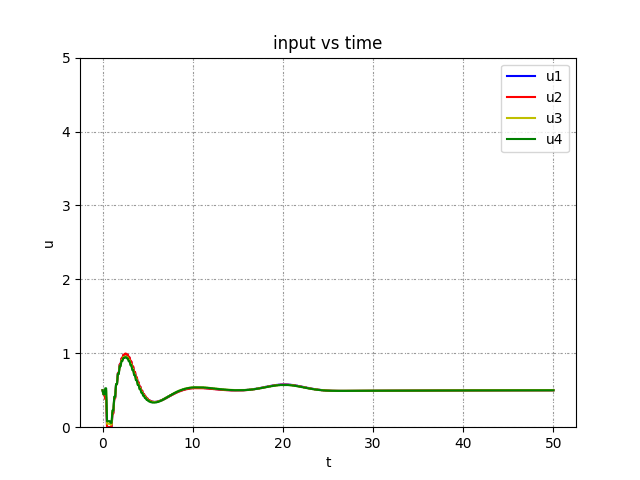
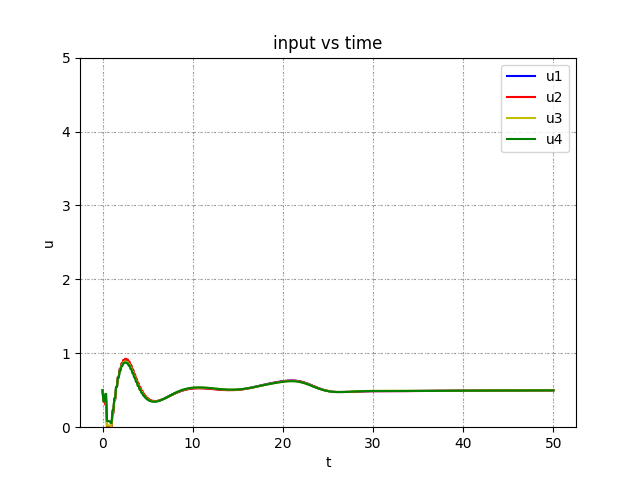
can generate desired result version, need coordinate tranform

diff --git a/gestelt_bringup/src/learning_agent_node.py b/gestelt_bringup/src/learning_agent_node.py
@@ -92,14 +92,14 @@ class LearningAgileAgentNode():
         # mission start point is the learning agile agent start point
         self.start_point = self.drone_pos
 
-        self.gate_point = np.array([msg.waypoints[0].position.x,msg.waypoints[0].position.y,msg.waypoints[0].position.z])
+        # self.gate_point = np.array([msg.waypoints[0].position.x,msg.waypoints[0].position.y,msg.waypoints[0].position.z])
         self.final_point = np.array([msg.waypoints[1].position.x,msg.waypoints[1].position.y,msg.waypoints[1].position.z])
-        
+        # print("gate point: ",self.gate_point)
         ## receive the start and end point, and the initial gate point, from ROS side
         # rewrite the inputs
         self.learing_agile_agent.receive_terminal_states(start=self.start_point,
-                                                         end=self.final_point,
-                                                         gate_center=self.gate_point)
+                                                         end=self.final_point)
+                                                        #  gate_center=self.gate_point)
 
         # problem definition
         # gazebo_sim=False, means the solver will compile to c code first, then solve the problem

diff --git a/gestelt_bringup/src/Learning_Agile/quad_OC.py b/gestelt_bringup/src/Learning_Agile/quad_OC.py
@@ -510,7 +510,6 @@ class OCSys:
         desired_goal_vel=np.array([0, 0, 0])
         desired_goal_ori = np.array([1, 0, 0, 0])
         desired_goal_w=np.array([0, 0, 0])
-        desired_thrust = np.ones(self.n_control)*0.5
         
         goal_state=np.concatenate((np.array(goal_pos),desired_goal_vel,desired_goal_ori,desired_goal_w))
        
@@ -521,7 +520,7 @@ class OCSys:
             # set the current input
             current_input = np.array(current_state_control[self.n_state:])
      
-            weight = 6*casadi.exp(-10*(dt*i-t_tra)**2) #gamma should increase as the flight duration decreases
+            weight = 60*casadi.exp(-10*(dt*i-t_tra)**2) #gamma should increase as the flight duration decreases
             
             self.acados_solver.set(i, 'p',np.concatenate((goal_state,
                                                           current_input,

diff --git a/gestelt_bringup/src/Learning_Agile/learning_agile_agent.py b/gestelt_bringup/src/Learning_Agile/learning_agile_agent.py
@@ -123,7 +123,7 @@ class LearningAgileAgent():
     def receive_terminal_states(self,
                                 start,
                                 end,
-                                gate_center=np.array([0,0,1.5])):
+                                gate_center=np.array([0,0,0.5])):
         """
         receive the start and end point defined in the mission file
 
@@ -353,7 +353,7 @@ def main():
     # rewrite the inputs
     learing_agile_agent.receive_terminal_states(start=np.array([0,1.8,1.4]),
                                                 end=np.array([2,-1.8,1.4]),
-                                                gate_center=[0.0,0,0.4])
+                                                gate_center=[0.0,0,0.5])
 
     # problem definition
     learing_agile_agent.problem_definition()

diff --git a/gestelt_bringup/src/learning_agile_mission.py b/gestelt_bringup/src/learning_agile_mission.py
@@ -208,7 +208,7 @@ def main():
     # waypoints are under the map frame, will be transformed to world frame
     
     # gate position
-    waypoints.append(create_pose(0.0,-0.0,0.4)) # 3.0,2.0,3
+    waypoints.append(create_pose(0.0,-0.0,0.5)) # 3.0,2.0,3
     
     # end position
     waypoints.append(create_pose(2.0,-1.8,1.4))# 5.0,2.0,3
